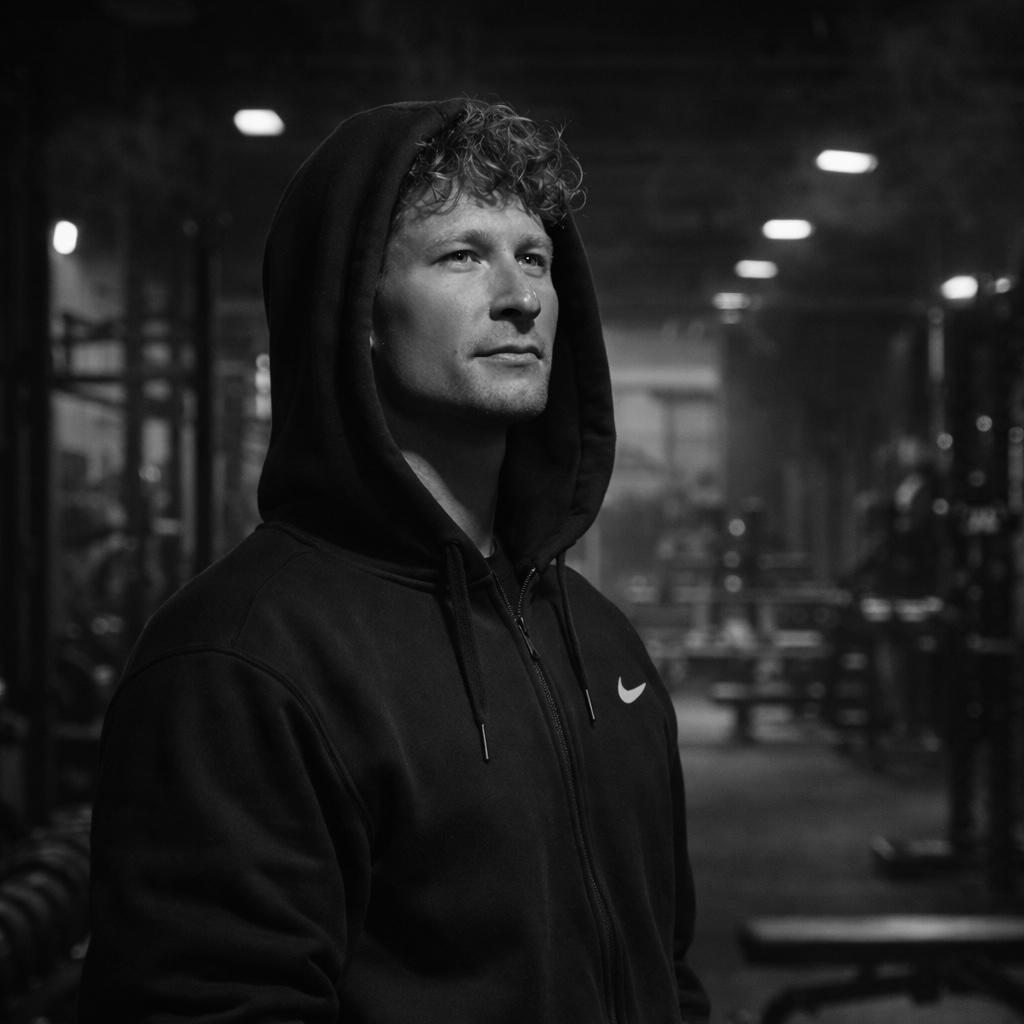
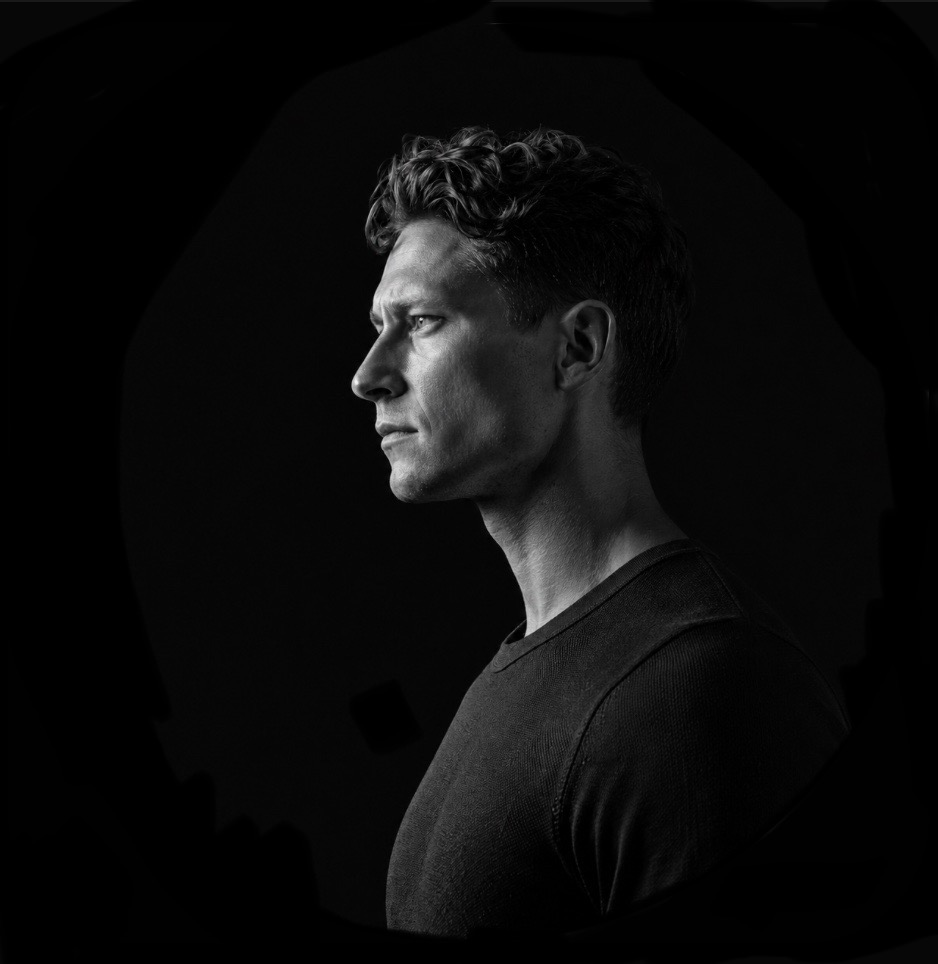
feat: Vercel Analytics + Speed Insights, neues OG-Bild
- @vercel/analytics und @vercel/speed-insights im Layout eingebunden
- OG-Image auf 'Bild 12.07.26' aktualisiert (938x964)
- Cache-Busting ?v=2 in OG- und Twitter-URLs

diff --git a/app/page.tsx b/app/page.tsx
@@ -31,16 +31,16 @@ export const metadata: Metadata = {
     description: 'Dein Personal Trainer in Zürich. Individuelles 1:1 Training. Erster Termin gratis! Ab CHF 85/h.',
     images: [
       {
-        url: '/og-image.jpg',
-        width: 1536,
-        height: 1024,
+        url: '/og-image.jpg?v=2',
+        width: 938,
+        height: 964,
         alt: 'Personal Training – Gym und Training in Zürich',
       },
     ],
   },
   twitter: {
     card: 'summary_large_image',
-    images: ['/og-image.jpg'],
+    images: ['/og-image.jpg?v=2'],
   },
   robots: {
     index: true, follow: true,
@@ -57,7 +57,7 @@ const jsonLdLocalBusiness = {
   alternateName: ['Personal Training Zürich', 'PT Zurich by Martin'],
   description: 'Professionelles Personal Training in Zürich. Individuelles 1:1 Training für Muskelaufbau, Fettabbau und Fitness. Kostenlose Geräte-Einweisung und Probetraining.',
   url: 'https://personaltrainingbymartin.netlify.app',
-  image: 'https://personaltrainingbymartin.netlify.app/og-image.jpg',
+  image: 'https://personaltrainingbymartin.netlify.app/og-image.jpg?v=2',
   priceRange: 'CHF 0-600',
   currenciesAccepted: 'CHF',
   paymentAccepted: 'Twint',
@@ -103,7 +103,7 @@ const jsonLdPerson = {
 const jsonLdImage = {
   '@context': 'https://schema.org',
   '@type': 'ImageObject',
-  url: 'https://personaltrainingbymartin.netlify.app/og-image.jpg',
+  url: 'https://personaltrainingbymartin.netlify.app/og-image.jpg?v=2',
   width: 1536,
   height: 1024,
   name: 'Personal Training – Gym und Training in Zürich',

diff --git a/app/layout.tsx b/app/layout.tsx
@@ -6,6 +6,8 @@ import { LanguageProvider } from '@/contexts/LanguageContext'
 import WhatsAppButton from '@/components/WhatsAppButton'
 import { WebVitals } from '@/components/WebVitals'
 import PageTracker from '@/components/PageTracker'
+import { Analytics } from '@vercel/analytics/next'
+import { SpeedInsights } from '@vercel/speed-insights/next'
 
 const inter = Inter({
   subsets: ['latin'],
@@ -55,9 +57,9 @@ export const metadata: Metadata = {
     description: 'Dein Personal Trainer in Zürich. Individuelles 1:1 Training. Erster Termin gratis! Ab CHF 85/h.',
     images: [
       {
-        url: '/og-image.jpg',
-        width: 1536,
-        height: 1024,
+        url: '/og-image.jpg?v=2',
+        width: 938,
+        height: 964,
         alt: 'Personal Training Zürich – by Martin',
       },
     ],
@@ -71,7 +73,7 @@ export const metadata: Metadata = {
     apple: { url: '/apple-touch-icon.png', sizes: '180x180', type: 'image/png' },
     shortcut: '/favicon.ico',
   },
-  twitter: { card: 'summary_large_image', images: ['/og-image.jpg'] },
+  twitter: { card: 'summary_large_image', images: ['/og-image.jpg?v=2'] },
   robots: {
     index: true,
     follow: true,
@@ -97,6 +99,8 @@ export default function RootLayout({
             <PageTracker />
             {children}
             <WhatsAppButton />
+            <Analytics />
+            <SpeedInsights />
           </AuthProvider>
         </LanguageProvider>
       </body>
